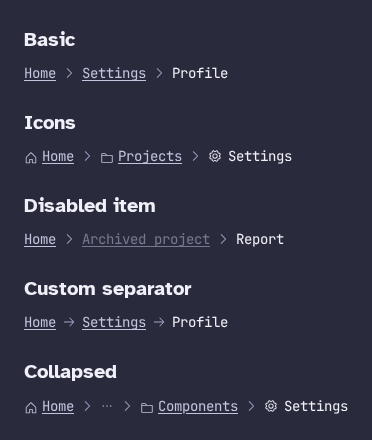
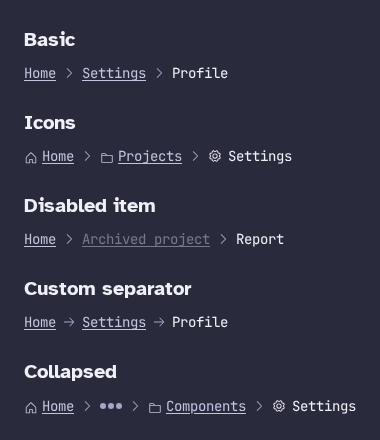
fix(ui): match breadcrumbs overflow ellipsis to AtPagination's dots
Swaps the PhDotsThree icon glyph for the same three-static-dots ellipsis
AtPagination already uses, sized up a step (size-1.5 vs size-1) since it
sits inline in a text-sm row rather than a fixed h-9 button.

diff --git a/packages/ui/src/components/Breadcrumbs/AtBreadcrumbs.vue b/packages/ui/src/components/Breadcrumbs/AtBreadcrumbs.vue
@@ -8,7 +8,7 @@ export const BREADCRUMB_SEPARATOR_KEY: InjectionKey<Component> = Symbol('breadcr
 </script>
 
 <script setup lang="ts">
-import { PhCaretRight, PhDotsThree } from '@phosphor-icons/vue'
+import { PhCaretRight } from '@phosphor-icons/vue'
 import { Comment, h, provide, useSlots, type VNode } from 'vue'
 import AtDropdown from '../Dropdown/AtDropdown.vue'
 import AtDropdownItem from '../Dropdown/AtDropdownItem.vue'
@@ -18,6 +18,11 @@ const props = withDefaults(defineProps<{ separator?: Component; maxItems?: numbe
   separator: () => PhCaretRight,
   maxItems: undefined,
 })
+
+// Same three-static-dots glyph as AtPagination's ellipsis, sized up a step
+// (size-1.5 vs Pagination's size-1) since this one sits inline in a text-sm
+// row rather than a fixed h-9 button.
+const overflowDotClasses = 'size-1.5 rounded-full bg-fg-subtle group-hover:bg-fg-default'
 
 provide(BREADCRUMB_SEPARATOR_KEY, props.separator)
 
@@ -68,10 +73,14 @@ function buildOverflowItem(hidden: VNode[]) {
             {
               type: 'button',
               'aria-label': 'Show hidden breadcrumb items',
-              class: 'flex items-center text-fg-muted hover:text-fg-default',
+              class: 'group flex items-center gap-0.5',
               'data-testid': 'breadcrumb-overflow-trigger',
             },
-            [h(AtIcon, { icon: PhDotsThree, size: 'sm' })],
+            [
+              h('span', { class: overflowDotClasses }),
+              h('span', { class: overflowDotClasses }),
+              h('span', { class: overflowDotClasses }),
+            ],
           ),
         default: () =>
           hidden.map((vnode) => {
